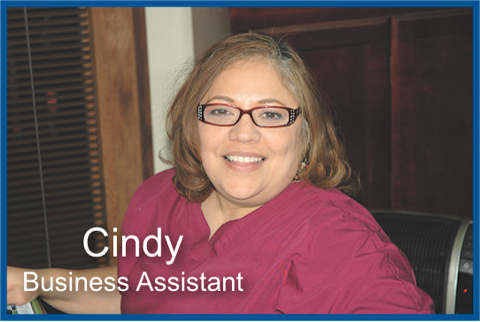
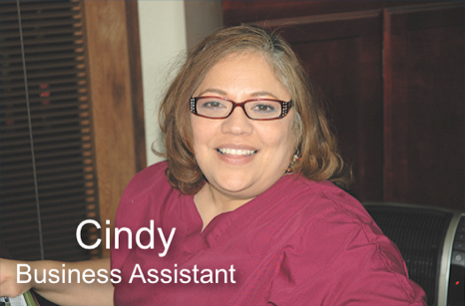
added panel style with box shadow, reorganized the html

diff --git a/index.html b/index.html
@@ -5,7 +5,7 @@
     <meta name="viewport"
           content="width=device-width, user-scalable=no, initial-scale=1.0, maximum-scale=1.0, minimum-scale=1.0">
     <meta http-equiv="X-UA-Compatible" content="ie=edge">
-    <title>Alamo City Dental</title>
+    <title>Alamo City Smiles</title>
     <link rel="stylesheet" href="./css/bootstrap.min.css">
     <link rel="stylesheet" href="./css/style.css">
 </head>
@@ -22,6 +22,7 @@
                     <span class="icon-bar"></span>
                     <span class="icon-bar"></span>
                     <span class="icon-bar"></span>
+                    <span class="icon-bar"></span>
                 </button>
                 <a class="navbar-brand" href="#"><img class="brand-logo" src="./img/acslogo-blank-sm.png" alt="Alamo City Smiles"></a>
                 <p class="navbar-text">Alamo City Smiles</p>
@@ -31,7 +32,8 @@
                 <ul class="nav navbar-nav navbar-right">
                     <li><a href="#">About</a></li>
                     <li><a href="#">Services</a></li>
-                    <li><a href="#">Schedule</a></li>
+                    <li><a href="#">Appointments</a></li>
+                    <li><a href="#">Staff</a></li>
                 </ul>
                 <ul class="nav navbar-nav navbar-right">
                 </ul>
@@ -46,7 +48,7 @@
 
 
 
-<main class="container">
+<main class="container-fluid">
     <!--ACS Logo-->
     <div class="row">
         <div class="col-xs-12">
@@ -60,61 +62,85 @@
         </div>
     </div>
 
-    <!--ABOUT SECTION START-->
-    <section class="about">
+    <div class="spacer container">
         <div class="row">
             <div class="col-xs-12 text-center">
-                <h1>Alamo City Smiles</h1>
-                <p>Dr. Winston O. Miller and Dr. Ned D. Lunt have been in business together for over 25 years. We welcome Dr. Barton and know you will find his skills equal to this wonderful practice.</p>
+                <h2>About</h2>
+            </div>
+        </div>
+    </div>
+
+    <!--ABOUT SECTION START-->
+    <section class="about container">
+        <div class="row">
+            <div class="col-xs-12 text-center">
+                <p class="section-description">Dr. Winston O. Miller and Dr. Ned D. Lunt have been in business together for over 25 years. We welcome Dr. Barton and know you will find his skills equal to this wonderful practice.</p>
             </div>
         </div>
         <div class="row">
             <div class="col-xs-12">
-                <img class="center-block img-responsive" src="./img/doctors-port.png" alt="Doctors">
+                <img class="center-block img-responsive img-rounded" src="./img/doctors-port.png" alt="Doctors">
             </div>
         </div>
     </section>
     <!--ABOUT SECTION END-->
 
-    <!--SOME SORT OF SEPARATOR-->
     <div class="row">
         <div class="col-xs-6 col-xs-offset-3">
             <hr>
+        </div>
+    </div>
+
+
+    <!--SPACER-->
+    <div class="spacer container">
+        <div class="row">
+            <div class="col-xs-12 text-center">
+                <h2>Services</h2>
+            </div>
         </div>
     </div>
 
     <!--SERVICES SECTION-->
-    <section class="services">
+    <section class="services container">
         <div class="row">
             <div class="col-xs-12 text-center">
-                <h2>Services</h2>
-                <p>We offer a variety of services which range from routine checkups to catastrophic procedures.</p>
+                <p class="section-description">We offer a variety of services which range from routine checkups to catastrophic procedures.</p>
             </div>
         </div>
         <div class="row">
             <div class="col-xs-12 col-sm-4">
-                <img class="service-img center-block img-responsive" src="./img/service-stock-sm.jpeg" alt="Service 1">
+                <img class="service-img center-block img-responsive img-rounded" src="./img/service-stock-sm.jpeg" alt="Service 1">
             </div>
             <div class="col-xs-12 col-sm-4">
-                <img class="service-img center-block img-responsive" src="./img/services-stock-tooth-sm.jpeg" alt="Service 2">
+                <img class="service-img center-block img-responsive img-rounded" src="./img/services-stock-tooth-sm.jpeg" alt="Service 2">
             </div>
             <div class="col-xs-12 col-sm-4">
-                <img class="service-img center-block img-responsive" src="./img/services-stock-child-sm.jpeg" alt="Service 3">
+                <img class="service-img center-block img-responsive img-rounded" src="./img/services-stock-child-sm.jpeg" alt="Service 3">
             </div>
         </div>
     </section>
+
+
     <div class="row">
         <div class="col-xs-6 col-xs-offset-3">
             <hr>
         </div>
     </div>
 
-    <!--SCHEDULE SECTION-->
-    <section class="schedule">
+    <div class="spacer container">
         <div class="row">
             <div class="col-xs-12 text-center">
                 <h2>Appointments</h2>
-                <p>Give us a call or send us an email to schedule your next visit.</p>
+            </div>
+        </div>
+    </div>
+
+    <!--SCHEDULE SECTION-->
+    <section class="schedule container">
+        <div class="row">
+            <div class="col-xs-12 text-center">
+                <p class="section-description">Give us a call or send us an email to schedule your next visit.</p>
             </div>
         </div>
         <div class="row">
@@ -137,52 +163,61 @@
         </div>
     </div>
 
-    <!--STAFF SECTION-->
-    <section>
+    <div class="spacer container">
         <div class="row">
             <div class="col-xs-12 text-center">
-              <h2>Our Staff</h2>
+                <h2>Our Staff</h2>
+            </div>
+        </div>
+    </div>
+
+    <!--TODO STAFF SHADOWS ARE MESSED UP! NEED TO FIX SOMEHOW. PADDING???-->
+    <!--STAFF SECTION-->
+    <section class="staff container">
+        <div class="row">
+            <div class="col-xs-12 text-center">
+              <p class="section-description">We are extremely fortunate to employ a smart, caring and driven team who strive each day to improve the services we provide to our valued patients.</p>
             </div>
         </div>
 
         <div class="hidden-sm hidden-md hidden-lg">
             <div class="row">
-                <div class="col-xs-12 backer">
-                    <img class="staff-pic img-responsive center-block" src="./img/jared.png" alt="Jared">
+                <div class="col-xs-12">
+                    <img class="staff-pic img-responsive img-rounded center-block" src="./img/jared.png" alt="Jared">
                 </div>
             </div>
             <div class="row">
-                <div class="col-xs-12 backer">
-                    <img class="staff-pic img-responsive center-block" src="./img/aurora.png" alt="Aurora">
+                <div class="col-xs-12">
+                    <img class="staff-pic img-responsive img-rounded center-block" src="./img/aurora.png" alt="Aurora">
                 </div>
             </div>
             <div class="row">
-                <div class="col-xs-12 backer">
-                    <img class="staff-pic img-responsive center-block" src="./img/bonette.png" alt="Bonette">
-                </div>
-            </div>
-
-            <div class="row">
-                <div class="col-xs-12 backer">
-                    <img class="staff-pic img-responsive center-block" src="./img/debbie.png" alt="Debbie">
+                <div class="col-xs-12">
+                    <img class="staff-pic img-responsive img-rounded center-block" src="./img/bonette.png" alt="Bonette">
                 </div>
             </div>
 
             <div class="row">
-                <div class="col-xs-12 backer">
-                    <img class="staff-pic img-responsive center-block" src="./img/gail.png" alt="Gail">
+                <div class="col-xs-12">
+                    <img class="staff-pic img-responsive img-rounded center-block" src="./img/debbie.png" alt="Debbie">
                 </div>
             </div>
 
             <div class="row">
-                <div class="col-xs-12 backer">
-                    <img class="staff-pic img-responsive center-block" src="./img/tori.png" alt="Tori">
+                <div class="col-xs-12">
+                    <img class="staff-pic img-responsive img-rounded center-block" src="./img/gail.png" alt="Gail">
+                </div>
+            </div>
+
+            <div class="row">
+                <div class="col-xs-12">
+                    <img class="staff-pic img-responsive img-rounded center-block" src="./img/tori.png" alt="Tori">
                 </div>
             </div>
 
             <div class="row ">
                 <div class="col-xs-12 ">
-                    <img class="staff-pic img-responsive center-block" src="./img/cindy.png" alt="Cindy">
+                    <img class="staff-pic img-responsive img-rounded center-block" src="./img/cindy.png" alt="Cindy">
                 </div>
             </div>
 
@@ -190,57 +225,27 @@
         <div class="hidden-xs">
             <div class="row">
                 <div class="col-sm-12 center-block">
-                    <img class="col-sm-4 staff-pic img-responsive" src="./img/jared.png" alt="Jared">
-                    <img class="col-sm-4 staff-pic img-responsive" src="./img/aurora.png" alt="Aurora">
-                    <img class="col-sm-4 staff-pic img-responsive" src="./img/bonette.png" alt="Bonette">
+                    <img class="col-sm-4 staff-pic" src="./img/jared.png" alt="Jared">
+                    <img class="col-sm-4 staff-pic" src="./img/aurora.png" alt="Aurora">
+                    <img class="col-sm-4 staff-pic" src="./img/bonette.png" alt="Bonette">
                 </div>
             </div>
             <div class="row">
                 <div class="col-sm-12 center-block">
-                    <img class="col-sm-4 staff-pic img-responsive" src="./img/debbie.png" alt="Debbie">
-                    <img class="col-sm-4 staff-pic img-responsive" src="./img/gail.png" alt="Gail">
-                    <img class="col-sm-4 staff-pic img-responsive" src="./img/tori.png" alt="Tori">
+                    <img class="col-sm-4 staff-pic" src="./img/debbie.png" alt="Debbie">
+                    <img class="col-sm-4 staff-pic" src="./img/gail.png" alt="Gail">
+                    <img class="col-sm-4 staff-pic" src="./img/tori.png" alt="Tori">
                 </div>
             </div>
 
             <div class="row ">
                 <div class="col-sm-12 center-block">
-                    <img class="col-sm-offset-4 col-sm-4 staff-pic img-responsive" src="./img/cindy.png" alt="Cindy">
+                    <img class="col-sm-offset-4 col-sm-4 staff-pic" src="./img/cindy.png" alt="Cindy">
                 </div>
             </div>
 
         </div>
     </section>
-
-
-    <!--TODO Hook form up to a backend that sends an email/notification to office-->
-    <!--SCHEDULE SECTION START-->
-    <!--<section class="schedule">-->
-        <!--<div class="row">-->
-            <!--<div class="col-xs-12 text-center">-->
-                <!--<h2>Schedule a Visit</h2>-->
-            <!--</div>-->
-        <!--</div>-->
-        <!--<div class="row">-->
-            <!--<div class="col-xs-12">-->
-         <!---->
-                <!--<form>-->
-                    <!--<div class="form-group">-->
-                        <!--<label for="full-name">Full Name</label>-->
-                        <!--<input type="text" class="form-control" id="full-name" placeholder="Full Name">-->
-
-                        <!--<label for="phone-number">Phone Number</label>-->
-                        <!--<input type="text" class="form-control" id="phone-number" placeholder="Phone Number">-->
-
-                        <!--<label for="email-address">Email address</label>-->
-                        <!--<input type="email" class="form-control" id="email-address" placeholder="Email">-->
-                    <!--</div>-->
-
-                    <!--<button type="submit" class="btn btn-default">Submit</button>-->
-                <!--</form>-->
-            <!--</div>-->
-        <!--</div>-->
-    <!--</section>-->
 </main>
 
 

diff --git a/css/style.css b/css/style.css
@@ -4,17 +4,23 @@ body {
     /*background: url("../img/dentist-stock-sm.jpeg") no-repeat fixed center;*/
     /*background-size: cover;*/
     font-family: 'Josefin Sans', sans-serif;
+    background-color: #c8d2de;
 }
 
 /*---------------------------Header Start---------------------------*/
 
 
 /************** Navigation *************/
+.navbar {
+    border: transparent;
+}
+
 
 /*Brand Logo Sizing*/
 .brand-logo {
     /*TODO make a custom mdeia query to handle margins*/
     /*margin-left: 100px;*/
+    box-shadow: none;
     max-width: 75px;
 }
 
@@ -24,20 +30,56 @@ body {
 
 /*Pushes navbar-right links left to make them more noticeable*/
 .navbar li {
-    margin-right: 50px;
+    margin-right: 30px;
 }
 /*---------------------------Header End---------------------------*/
 
 
 /*---------------------------Main Start---------------------------*/
+main {
+    margin-top: 80px;
+}
+
+h2 {
+    color: #3c577b;
+    font-weight: bold;
+}
+
+hr {
+    max-width: 200px;
+}
+
+img {
+    margin-top: 10px;
+    padding: 0;
+    box-shadow: 3px 3px 3px #404d58;
+}
+
+.about,
+.services,
+.schedule,
+.staff{
+    background-color: #3c577b;
+    padding-bottom: 25px;
+    color: #d0e2f3;
+    box-shadow: 3px 3px 3px #404d58;
+}
+
+.spacer {
+    background: #ecf4ff;
+    box-shadow: 3px 3px 3px #404d58;
+}
+
+
+.section-description {
+    margin-top: 25px;
+}
 
 /************** ABOUT *************/
-main {
-    margin-top: 75px;
-}
 
 .acs-smiles {
     max-width: 250px;
+    box-shadow: none;
 }
 
 /*TODO find a better seperator of sections for XS*/
@@ -49,22 +91,18 @@ hr {
 
 /************** SERVICES *************/
 
-.service-img {
-    margin-top: 10px;
-}
+
+
 
 /************** Scheduling *************/
-label {
-    margin-top: 10px;
-}
+
+
 
 /************** Staff *************/
+
 .staff-pic {
-    margin-top: 20px
-
+    margin-top: 20px;
+    box-shadow: 3px 3px 3px #404d58;
 }
 
-.img-thumbnail {
-    margin: 5px;
-}
 /*---------------------------Main End---------------------------*/
